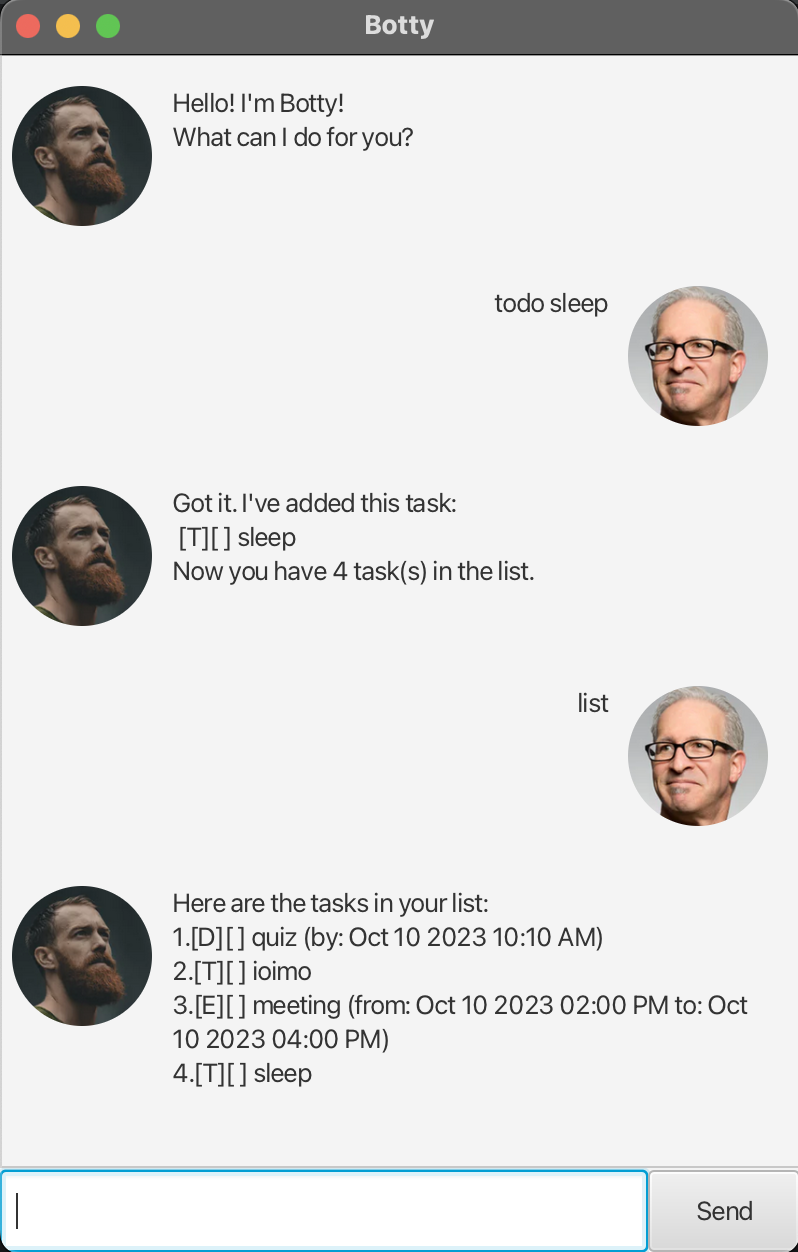
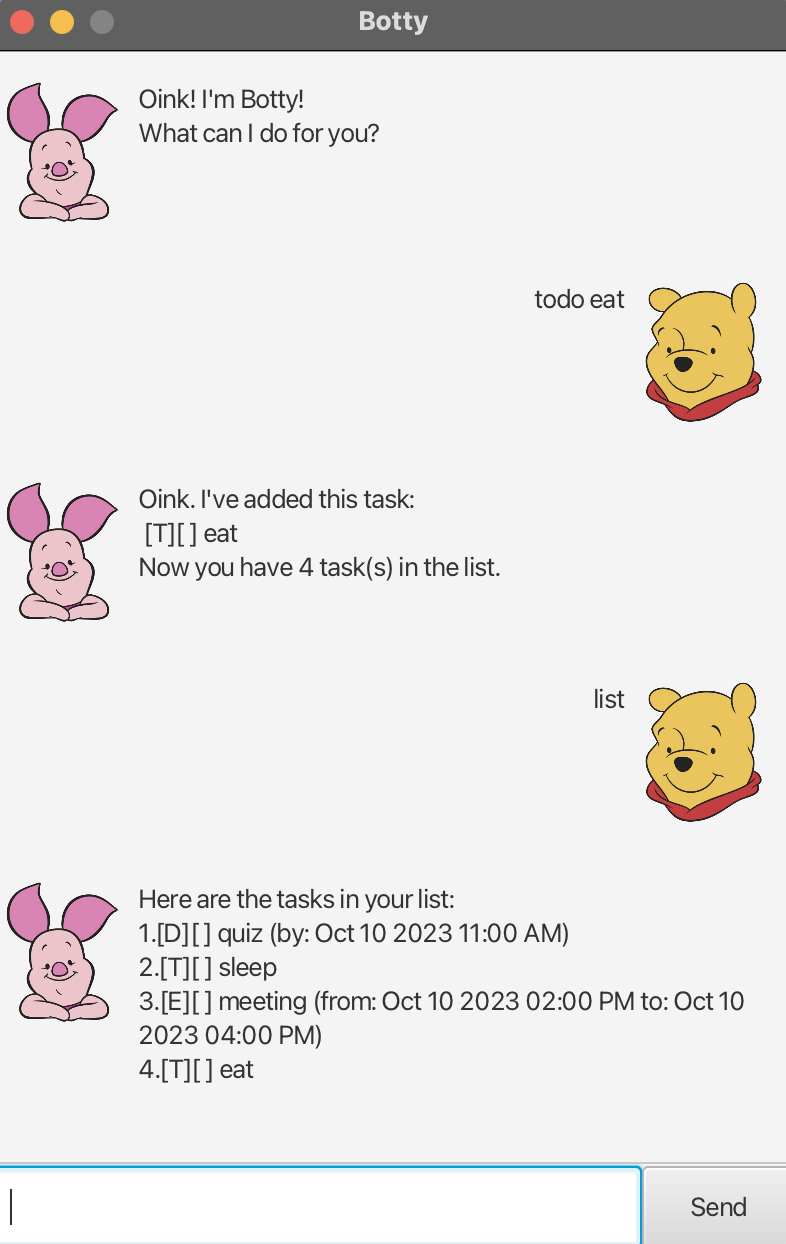
Give a personality

diff --git a/src/main/java/duke/TaskList.java b/src/main/java/duke/TaskList.java
@@ -59,7 +59,7 @@ public class TaskList {
      */
     public String printAddTaskSuccessMessage() {
         StringBuilder message = new StringBuilder();
-        message.append("Got it. I've added this task:\n");
+        message.append("Oink. I've added this task:\n");
         message.append(" ");
         message.append(this.tasks.get(this.tasks.size() - 1).toString());
         message.append("\n");
@@ -76,7 +76,7 @@ public class TaskList {
      */
     public String printRemoveTaskSuccessMessage(Task task) {
         StringBuilder message = new StringBuilder();
-        message.append("Noted. I've removed this task:\n");
+        message.append("Oink. I've removed this task:\n");
         message.append(" ");
         message.append(task.toString());
         message.append("\n");
@@ -100,7 +100,7 @@ public class TaskList {
                 this.tasks.add(new Event(task[0], LocalDateTime.parse(task[1], this.inputFormatter),
                         LocalDateTime.parse(task[2], this.inputFormatter)));
             } catch (DateTimeParseException exception) {
-                return "Invalid start and end date/time. The format should be yyyy-mm-dd hh:mm";
+                return "Oink! Invalid start and end date/time. The format should be yyyy-mm-dd hh:mm";
             }
             return printAddTaskSuccessMessage();
         case "todo":
@@ -110,7 +110,7 @@ public class TaskList {
             try {
                 this.tasks.add(new Deadline(task[0], LocalDateTime.parse(task[1], this.inputFormatter)));
             } catch (DateTimeParseException exception) {
-                return "Invalid start and end date/time. The format should be yyyy-mm-dd hh:mm";
+                return "Oink! Invalid start and end date/time. The format should be yyyy-mm-dd hh:mm";
             }
             return printAddTaskSuccessMessage();
         default:
@@ -157,7 +157,7 @@ public class TaskList {
                 throw new DukeException(ExceptionTypes.INVALIDTASKNUMBER);
             }
             StringBuilder markedMessage = new StringBuilder();
-            markedMessage.append("Nice! I've marked this task as done:\n");
+            markedMessage.append("Oink! I've marked this task as done:\n");
             Task markTask = this.tasks.get(taskNumber - 1);
             markTask.markAsDone();
             markedMessage.append(markTask.toString());
@@ -170,7 +170,7 @@ public class TaskList {
                 throw new DukeException(ExceptionTypes.INVALIDTASKNUMBER);
             }
             StringBuilder unmarkedMessage = new StringBuilder();
-            unmarkedMessage.append("OK, I've marked this task as not done yet:\n");
+            unmarkedMessage.append("Oink, I've marked this task as not done yet:\n");
             Task unmarkTask = this.tasks.get(taskNumber - 1);
             unmarkTask.markAsNotDone();
             unmarkedMessage.append(unmarkTask.toString());
@@ -226,19 +226,19 @@ public class TaskList {
                 oldTask.updateTask(task[0], LocalDateTime.parse(task[1], this.inputFormatter),
                         LocalDateTime.parse(task[2], this.inputFormatter));
             } catch (DateTimeParseException exception) {
-                return "Invalid start and end date/time. The format should be yyyy-mm-dd hh:mm";
+                return "OINK! Invalid start and end date/time. The format should be yyyy-mm-dd hh:mm";
             }
-            return "Task updated successfully";
+            return "Oink! Task updated successfully";
         case "todo":
             oldTask.updateTask(task[0]);
-            return "Task updated successfully";
+            return "Oink! Task updated successfully";
         case "deadline":
             try {
                 oldTask.updateTask(task[0], LocalDateTime.parse(task[1], this.inputFormatter));
             } catch (DateTimeParseException exception) {
-                return "Invalid start and end date/time. The format should be yyyy-mm-dd hh:mm";
+                return "OINK! Invalid start and end date/time. The format should be yyyy-mm-dd hh:mm";
             }
-            return "Task updated successfully";
+            return "Oink! Task updated successfully";
         default:
             throw new DukeException(ExceptionTypes.INVALIDCOMMAND);
         }

diff --git a/src/main/java/duke/ExceptionTypes.java b/src/main/java/duke/ExceptionTypes.java
@@ -4,25 +4,25 @@ package duke;
  * Represents the types of exceptions.
  */
 public enum ExceptionTypes {
-    INVALIDCOMMANDEVENT("OOPS!!! Invalid command. The command for an event should be:\n"
+    INVALIDCOMMANDEVENT("OINK! Invalid command. The command for an event should be:\n"
             + "event <task> /from yyyy-mm-dd hh:mm /to yyyy-mm-dd hh:mm"),
-    INCOMPLETECOMMANDEVENT("OOPS!!! The description of an event cannot be empty and "
+    INCOMPLETECOMMANDEVENT("OINK! The description of an event cannot be empty and "
             + "the start and end time/date cannot be empty."),
-    INVALIDCOMMANDDEADLINE("OOPS!!! Invalid command. The command for a deadline should be:\n"
+    INVALIDCOMMANDDEADLINE("OINK! Invalid command. The command for a deadline should be:\n"
             + "deadline <task> /by yyyy-mm-dd hh:mm"),
-    INCOMPLETECOMMANDDEADLINE("OOPS!!! The description of a deadline cannot be empty "
+    INCOMPLETECOMMANDDEADLINE("OINK! The description of a deadline cannot be empty "
             + "and the deadline for the deadline cannot be empty."),
-    INCOMPLETECOMMANDTODO("OOPS!!! The description of a todo cannot be empty."),
-    INVALIDTASKNUMBER("OOPS!! Invalid task number. The task number has to be from"
+    INCOMPLETECOMMANDTODO("OINK! The description of a todo cannot be empty."),
+    INVALIDTASKNUMBER("OINK! Invalid task number. The task number has to be from"
             + " one to the number of tasks in the list."),
-    INCOMPLETETASKNUMBER("OOPS!! Task number cannot empty. Please indicate a task number"
+    INCOMPLETETASKNUMBER("OINK! Task number cannot empty. Please indicate a task number"
             + " from one to the number of tasks in the list."),
     MARKEMPTYLIST("Add task to start marking task as done!"),
     UNMARKEMPTYLIST("Add task to start marking task as not done!"),
     DELETEEMPTYLIST("Add task to start deleting!"),
-    INVALIDCOMMAND("OOPS!!! I'm sorry, but I don't know what that means :-("),
-    EMPTYKEYWORD("OOPS!!! Please enter something to search."),
-    INCOMPLETEUPDATEDETAILS("OOPS!!! Please enter the task number and the new task details.\n");
+    INVALIDCOMMAND("OINK! I'm sorry, but I don't know what that means :-("),
+    EMPTYKEYWORD("OINK! Please enter something to search."),
+    INCOMPLETEUPDATEDETAILS("OINK! Please enter the task number and the new task details.\n");
 
     private final String errormessage;
 

diff --git a/src/main/java/duke/MainWindow.java b/src/main/java/duke/MainWindow.java
@@ -25,8 +25,8 @@ public class MainWindow extends AnchorPane {
     private Duke duke;
     private Stage stage;
 
-    private Image userImage = new Image(this.getClass().getResourceAsStream("/images/DaUser.png"));
-    private Image dukeImage = new Image(this.getClass().getResourceAsStream("/images/DaDuke.png"));
+    private Image userImage = new Image(this.getClass().getResourceAsStream("/images/pooh.png"));
+    private Image dukeImage = new Image(this.getClass().getResourceAsStream("/images/piglet.png"));
 
     /**
      * Initializes the main window.
@@ -35,7 +35,7 @@ public class MainWindow extends AnchorPane {
     public void initialize() {
         scrollPane.vvalueProperty().bind(dialogContainer.heightProperty());
         dialogContainer.getChildren().addAll(
-                DialogBox.getDukeDialog("Hello! I'm Botty!\nWhat can I do for you?", dukeImage)
+                DialogBox.getDukeDialog("Oink! I'm Botty!\nWhat can I do for you?", dukeImage)
         );
     }
 

diff --git a/src/main/java/duke/Ui.java b/src/main/java/duke/Ui.java
@@ -7,7 +7,7 @@ public class Ui {
 
     // Print the farewell message
     public String printFarewell() {
-        return "Bye. Hope to see you again soon!";
+        return "Oink. Hope to see you again soon!";
     }
 
     /**
@@ -15,7 +15,7 @@ public class Ui {
      */
     public String printAllCommands() {
         StringBuilder commands = new StringBuilder();
-        commands.append("OOPS!!! Invalid command. Try the following commands instead:\n");
+        commands.append("OINK! Invalid command. Try the following commands instead:\n");
         commands.append("> todo <task>\n");
         commands.append("> deadline <task> /by yyyy-mm-dd hh:mm\n");
         commands.append("> event <task> /from yyyy-mm-dd hh:mm /to yyyy-mm-dd hh:mm\n");
